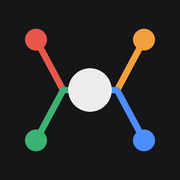
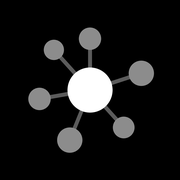
v12: novo ícone monocromático
Claude-Session: https://claude.ai/code/session_019KTKnenzSiQNzJcZKMhzEQ

diff --git a/index.html b/index.html
@@ -178,7 +178,7 @@ input[type=range]{width:100%;margin:12px 0}
 <input type="file" id="f-imp" accept="application/json,.json" hidden>
 <script>
 'use strict';
-const VER='v11';
+const VER='v12';
 const FONT="-apple-system,BlinkMacSystemFont,'Segoe UI',Helvetica,Arial,sans-serif";
 const FALL={sans:"-apple-system,BlinkMacSystemFont,'Segoe UI',Helvetica,Arial,sans-serif",serif:"Georgia,'Times New Roman',serif",mono:"Menlo,Consolas,'Courier New',monospace",hand:"'Marker Felt','Comic Sans MS',cursive"};
 const FONTS=[['','Padrão','sans'],['Helvetica Neue','Helvetica Neue','sans'],['Arial','Arial','sans'],['Verdana','Verdana','sans'],['Trebuchet MS','Trebuchet MS','sans'],['Futura','Futura','sans'],['Avenir Next','Avenir Next','sans'],['Gill Sans','Gill Sans','sans'],['Optima','Optima','sans'],['DIN Alternate','DIN Alternate','sans'],['Thonburi','Thonburi','sans'],['Georgia','Georgia','serif'],['Times New Roman','Times New Roman','serif'],['Palatino','Palatino','serif'],['Charter','Charter','serif'],['Cochin','Cochin','serif'],['Baskerville','Baskerville','serif'],['Copperplate','Copperplate','serif'],['Courier New','Courier New','mono'],['Menlo','Menlo','mono'],['American Typewriter','American Typewriter','serif'],['Chalkboard SE','Chalkboard SE','hand'],['Noteworthy','Noteworthy','hand'],['Marker Felt','Marker Felt','hand']];

diff --git a/sw.js b/sw.js
@@ -1,4 +1,4 @@
-const C='trama-v11';
+const C='trama-v12';
 const FILES=['./','./index.html','./manifest.webmanifest','./icon-192.png','./icon-512.png','./icon-180.png'];
 self.addEventListener('install',e=>{e.waitUntil(caches.open(C).then(c=>c.addAll(FILES)).then(()=>self.skipWaiting()))});
 self.addEventListener('activate',e=>{e.waitUntil(caches.keys().then(ks=>Promise.all(ks.filter(k=>k.startsWith('trama-')&&k!==C).map(k=>caches.delete(k)))).then(()=>self.clients.claim()))});
